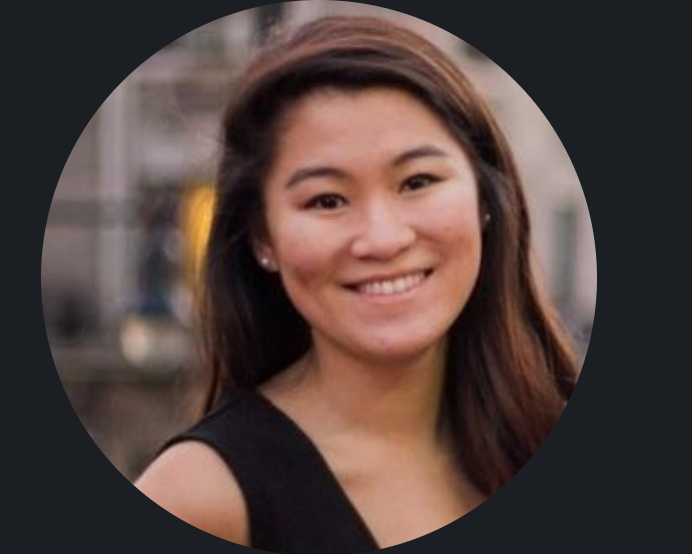
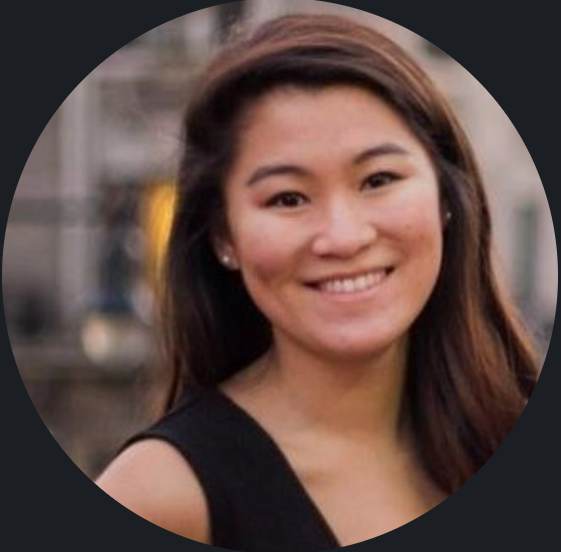
edited css

diff --git a/assets/css/style.css b/assets/css/style.css
@@ -41,39 +41,57 @@ body {
     background-position: center;
 }
 
-.flexbox-container {
-    display: flex;
-    justify-content: center;
-    width: 500px;
-    height: 200px;
-    margin: 10px;
-    border: 3px solid black;
-    background-color: rgba(188, 156, 202, 0.768);
-    align-self: center;
-
-
-}
 main h2{
     color: rgb(87, 75, 138);
     font-family:Verdana, Geneva, Tahoma, sans-serif;
-    
+
 }
 #AboutMe {
     display: flex;
     justify-content: space-around;
+    font-size: 20px;
 }
 
 .myphoto {
     height: 200px;
+    border-radius: 50%;
 }
 
 #Work {
     display: flex;
     justify-content: space-around;
+    font-size: 20px;
 }
+
+.project1 {
+    height: 250px;
+    display: flex;
+    justify-content: space-evenly;
+}
+.flexbox-container {
+    display: flex;
+    justify-content: center;
+    width: 300px;
+    height: 100px;
+    margin: 10px;
+    border: 3px solid black;
+    background-color: rgba(188, 156, 202, 0.768);
+    align-self: center;
+    margin-top: 100px;
+}
+
+.project3 {
+    height: 150px;
+    display: flex;
+    justify-content: space-evenly;
+    margin-top: 100px;
+
+}
+
 #ContactMe {
     display: flex;
     justify-content: space-around;
+    font-size: 14px;
 }
 
 #ContactMe p {
@@ -81,10 +99,11 @@ main h2{
     display: flex;
   list-style-type: none;
   height: 50px;
-  justify-content: center;
+  justify-content: space-evenly;
+font-family:Cambria, Cochin, Georgia, Times, 'Times New Roman', serif;
+font-size: 20px
   
 }
-
 
 @media screen and (max-width: 992px) {
     .header {
@@ -98,7 +117,7 @@ main h2{
     }
 }
 
-@media screen and (max-width: 768px) {
+@media screen and (max-width: 820px) {
     .main {
       width: 100%;
     }

diff --git a/index.html b/index.html
@@ -45,17 +45,20 @@
 <section id="Work" class="Work">
     <h2>Work</h2>
     <hr>
-    <div class="flexbox-container"></div>
-    <p> https://rosiedeng1.github.io/ClassAssignmentsWeekOne/</p>
-    </section>
+    <a title="Project1" href="https://rosiedeng1.github.io/ClassAssignmentsWeekOne"><img class="project1" src="./assets/images/ProjectImage.jpg" alt="ProjectImg"/></a>
+   <br> 
+   <a title="Project2" href="https://rosiedeng1.github.io/"><div class="flexbox-container" Project 2></div></a>
+   <a title="Project3" href="https://rosiedeng1.github.io/prework-studyguide/"><img class="project3" src="./assets/images/Project3.jpg" Project 3></img></a>
+</section>
+
 
 <section id="ContactMe" class="ContactMe">
         <h2>Contact Me</h2>
         <hr>
-        <p> number: 914 316 3854 
-            email: rdeng@specailtyscript.com
-            Linkedin
-        </p>
+        <p> number: 914 316 3854 </p>
+        <p>email: rdeng@specailtyscript.com</p>
+         <p>Linkedin</p> 
+         <p>Github</p>
         </section>
 
 <section id="Resume" class="Resume">
@@ -64,10 +67,9 @@
             </section>
 </main>
 
-
 </body>
 
-
+<footer></footer>
 
 
 </html>

diff --git a/README.md b/README.md
@@ -1,2 +1,26 @@
-# ClassAssignmentWeek2
-create my own portfolio
+Portfolio Week 2 
+## Description
+
+The purpose of this project was to create my own portfolio that gives details about myself and projects I've worked on so potential employers/anyone can look at. I built this project to have a website that showcases my skills and give people access to my contact info if they would like to reach out/are interested. It solves the problem of creating a space to showcase my work. I learned a lot about how to create a website from scratch which includes using flexboxes, media queries, and structuring a website properly. 
+Provide a short description explaining the what, why, and how of your project. Use the following questions as a guide:
+
+## Usage
+
+This website can be used by clicking on one of the links at the top (About Me, Work, Contact Me, etc ) which goes to the corresponding section and gives details on that topic that is linked. In the Work section, if you click on an image, it will link to a corresponding project that I have worked on. 
+Provide instructions and examples for use. Include screenshots as needed.
+
+To add a screenshot, create an `assets/images` folder in your repository and upload your screenshot to it. Then, using the relative file path, add it to your README using the following syntax:
+
+![alt text](assets/images/screenshot.png)
+
+## Credits 
+N/A 
+
+## License
+
+Please refer to the LICENSE in the repo.
+
+
+## Features
+
+If your project has a lot of features, list them here.
